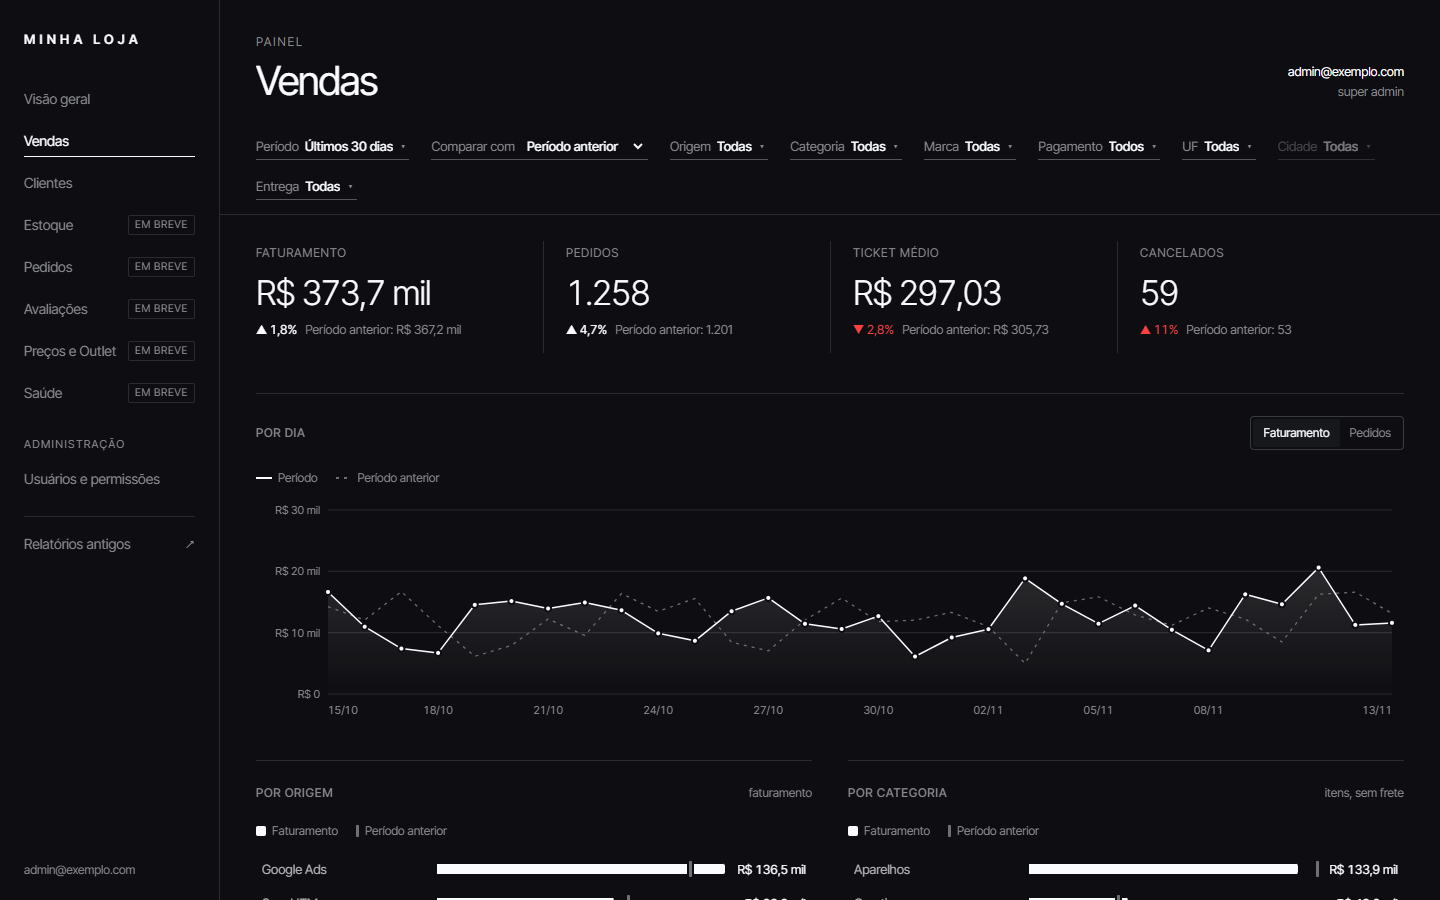
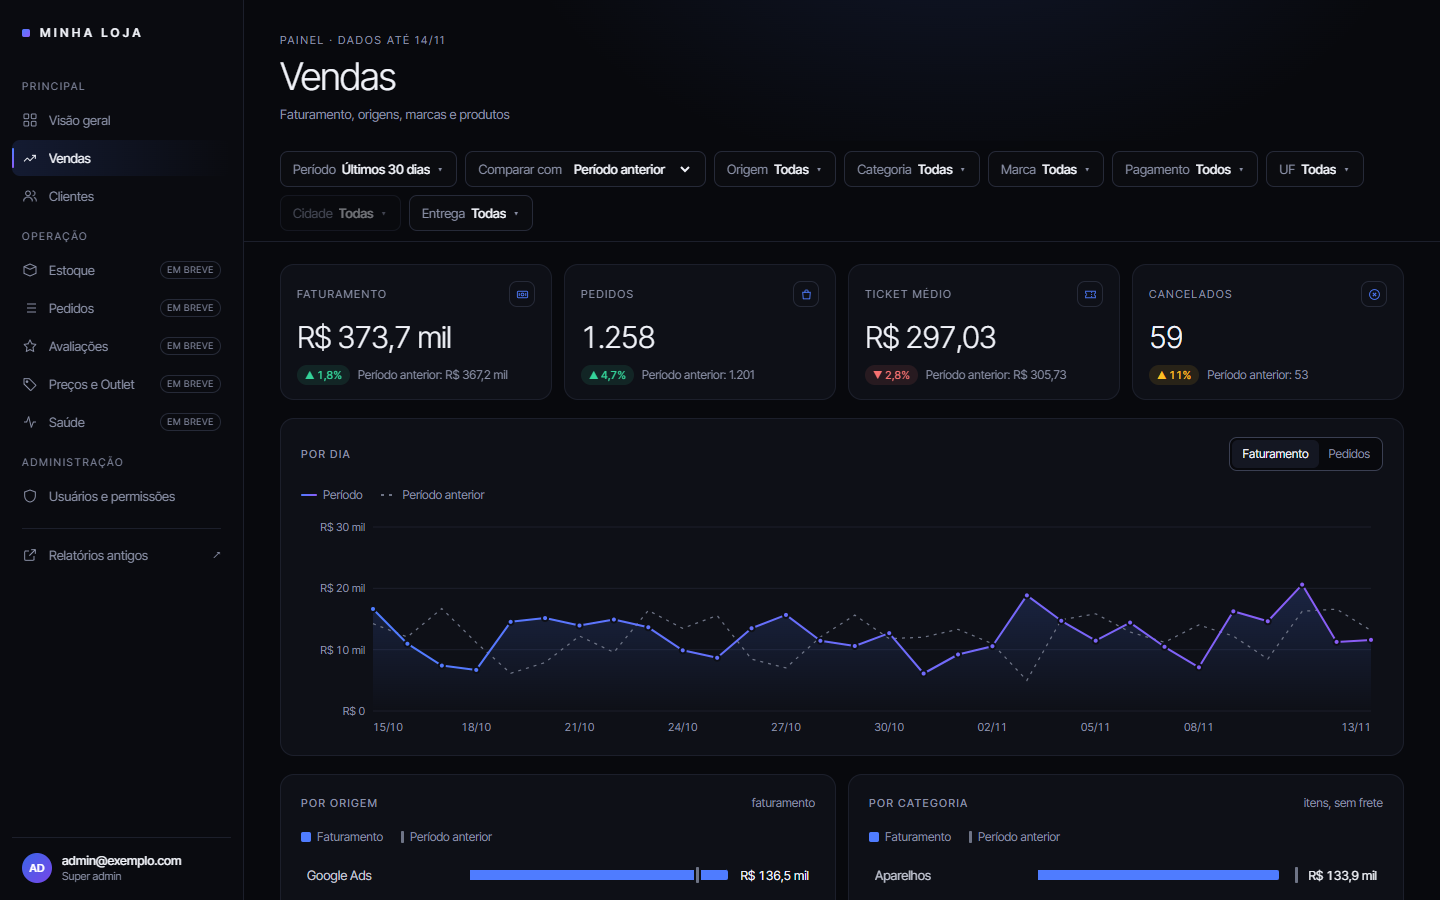
chore: v0.3.0 com o visual azul elétrico

diff --git a/public/js/versao.js b/public/js/versao.js
@@ -1,2 +1,2 @@
 // Versão do produto mostrada no rodapé. Um teste garante que é igual à do package.json.
-export const VERSAO = '0.2.0';
+export const VERSAO = '0.3.0';
